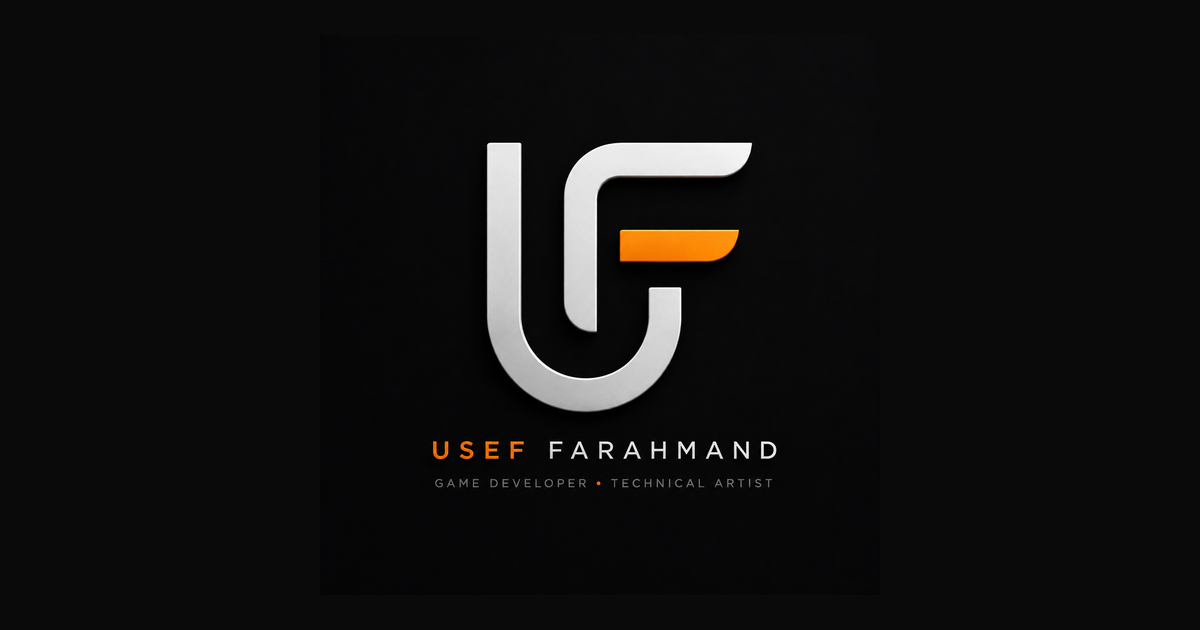
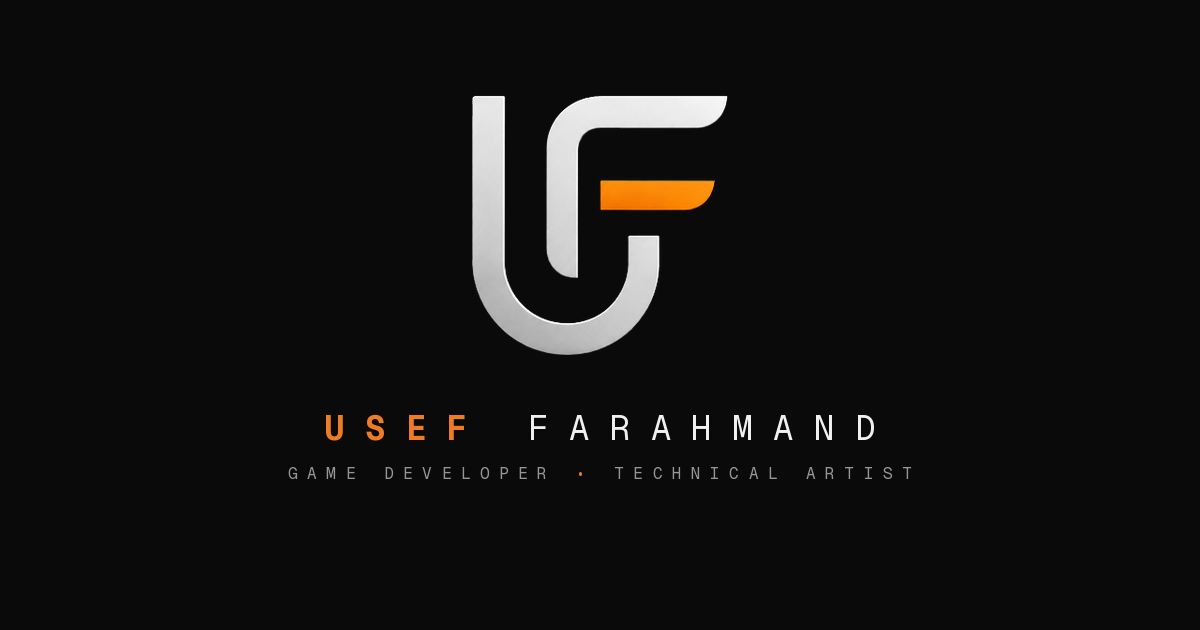
feat(branding): use brand mark as placeholder for missing content images
- Re-save public/brand/logo-mark.png and regenerate all derived icons
  (icon.png, apple-icon.png, icon-192.png, favicon.ico) from source
- Rebuild opengraph-image.png with matching layout/typography
- ProjectCard/ProjectHero: fall back to BrandLogo instead of category
  icon when coverImageUrl/logoUrl is missing
- ArticleCard: fall back to BrandLogo instead of platform icon when
  headerImageUrl is missing (platform badge unchanged)
- brand.profile.src now points at logo-mark.png as an explicit
  placeholder pending a real profile photo
- Avatar (recommender photos) intentionally left on initials fallback

Changed region(s): [[0.2467, 0.1508, 0.74, 0.7841], [0.6783, 0.7238, 0.7092, 0.754], [0.2467, 0.7238, 0.2775, 0.754]]

diff --git a/src/components/ui/ProjectCard.tsx b/src/components/ui/ProjectCard.tsx
@@ -1,25 +1,10 @@
 import { getTranslations } from "next-intl/server";
 import Image from "next/image";
-import {
-  Star,
-  Sparkles,
-  Code2,
-  Smartphone,
-  Gamepad2,
-  Wrench,
-  type LucideIcon,
-} from "lucide-react";
+import { Star } from "lucide-react";
 import { Link } from "@/i18n/navigation";
 import { StatusBadge } from "@/components/ui/StatusBadge";
-import type { Locale, ProjectCategory, ResolvedProject } from "@/types/content";
-
-const CATEGORY_ICON: Record<ProjectCategory, LucideIcon> = {
-  ai: Sparkles,
-  web: Code2,
-  mobile: Smartphone,
-  game: Gamepad2,
-  tool: Wrench,
-};
+import { BrandLogo } from "@/components/ui/BrandLogo";
+import type { Locale, ResolvedProject } from "@/types/content";
 
 export async function ProjectCard({
   project,
@@ -34,7 +19,6 @@ export async function ProjectCard({
     getTranslations({ locale, namespace: "projectCard" }),
   ]);
 
-  const CategoryIcon = CATEGORY_ICON[project.category];
   const platformLine = [
     project.platforms.map((platform) => tPlatform(platform)).join(" · "),
     project.releaseYear,
@@ -58,8 +42,8 @@ export async function ProjectCard({
             className="object-cover transition-transform duration-300 group-hover:scale-105"
           />
         ) : (
-          <div className="text-text-secondary flex h-full w-full items-center justify-center">
-            <CategoryIcon className="h-10 w-10" aria-hidden="true" />
+          <div className="flex h-full w-full items-center justify-center">
+            <BrandLogo size={48} className="opacity-30" />
           </div>
         )}
 
@@ -76,7 +60,7 @@ export async function ProjectCard({
           {project.logoUrl ? (
             <Image src={project.logoUrl} alt="" fill className="object-cover" />
           ) : (
-            <CategoryIcon className="h-5 w-5" aria-hidden="true" />
+            <BrandLogo size={22} />
           )}
         </span>
         <div className="min-w-0 flex-1">

diff --git a/src/components/sections/ProjectHero.tsx b/src/components/sections/ProjectHero.tsx
@@ -3,6 +3,7 @@ import { Globe, Play, Download, Smartphone } from "lucide-react";
 import type { ComponentType, SVGProps } from "react";
 import { GitHubIcon } from "@/components/ui/icons";
 import { StatusBadge } from "@/components/ui/StatusBadge";
+import { BrandLogo } from "@/components/ui/BrandLogo";
 import { formatMonthYear } from "@/lib/date";
 import type { Locale, ResolvedProject } from "@/types/content";
 
@@ -66,11 +67,13 @@ export function ProjectHero({
   return (
     <header className="mb-14 flex flex-col gap-6">
       <div className="flex items-center gap-4">
-        {project.logoUrl && (
-          <span className="bg-accent/10 relative h-14 w-14 shrink-0 overflow-hidden rounded-xl">
+        <span className="bg-accent/10 relative flex h-14 w-14 shrink-0 items-center justify-center overflow-hidden rounded-xl">
+          {project.logoUrl ? (
             <Image src={project.logoUrl} alt="" fill className="object-cover" />
-          </span>
-        )}
+          ) : (
+            <BrandLogo size={30} />
+          )}
+        </span>
         <div className="flex flex-col gap-1.5">
           <div className="flex flex-wrap items-center gap-2">
             <StatusBadge status={project.status} label={statusLabel} />

diff --git a/src/config/brand.ts b/src/config/brand.ts
@@ -43,16 +43,16 @@ export const brand = {
    * replaced, never per-locale, so it lives here rather than in the
    * localized content layer.
    *
-   * The current file is a placeholder illustration (public/profile/
-   * usef-farahmand.svg), not a real photograph — replace it with an
-   * actual professional photo at the same path (any raster format also
-   * works; only this path needs to change, see Avatar/AboutIntro, which
-   * both just consume `brand.profile.src`).
+   * Currently points at the brand mark itself as a deliberate placeholder
+   * (no real photo exists yet) — replace with an actual professional
+   * photo at the same path once available (any raster format also
+   * works; only this path needs to change, see AboutIntro, which just
+   * consumes `brand.profile.src`).
    */
   profile: {
-    src: "/profile/usef-farahmand.svg",
-    width: 480,
-    height: 480,
+    src: "/brand/logo-mark.png",
+    width: 512,
+    height: 512,
   },
   /**
    * Served by the src/app/opengraph-image.png file convention. Also

diff --git a/src/components/ui/ArticleCard.tsx b/src/components/ui/ArticleCard.tsx
@@ -2,6 +2,7 @@ import Image from "next/image";
 import { ExternalLink, Newspaper } from "lucide-react";
 import type { ComponentType, SVGProps } from "react";
 import { LinkedInIcon } from "@/components/ui/icons";
+import { BrandLogo } from "@/components/ui/BrandLogo";
 import { formatMonthYear } from "@/lib/date";
 import type {
   ArticleSourcePlatform,
@@ -59,8 +60,8 @@ export function ArticleCard({
             className="object-cover transition-transform duration-300 group-hover:scale-105"
           />
         ) : (
-          <div className="text-text-secondary flex h-full w-full items-center justify-center">
-            <PlatformIcon className="h-10 w-10" aria-hidden="true" />
+          <div className="flex h-full w-full items-center justify-center">
+            <BrandLogo size={48} className="opacity-30" />
           </div>
         )}
 
